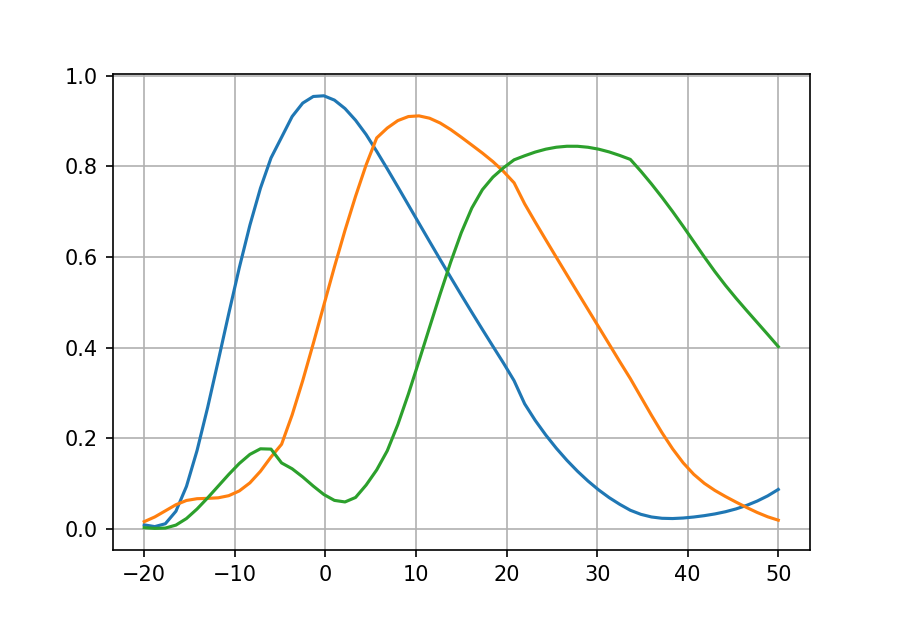
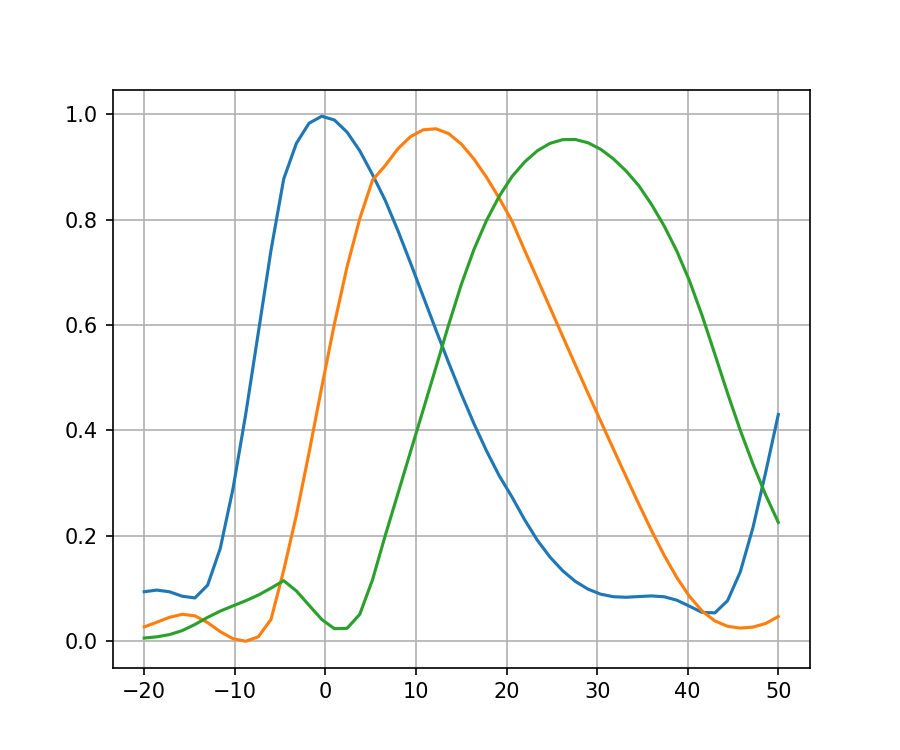
improved accuracy

diff --git a/test_slant.py b/test_slant.py
@@ -23,7 +23,7 @@ domain = Domain()
 domain.set_period_centered(period, period)
 
 modes = Modes(domain)
-modes.set_harmonics(1, 0)
+modes.set_harmonics(10, 0)
 
 
 def run(AOI, slant_angle):
@@ -49,7 +49,7 @@ def run(AOI, slant_angle):
                      slant_angle=np.deg2rad(slant_angle),
                      depth=1.219,
                      dff=-1,
-                     dz=0.1)
+                     dz=0.02)
 
     Sglobal = Sglobal @ S
     Sglobal = Sglobal @ Strn
@@ -122,9 +122,9 @@ def run(AOI, slant_angle):
 
 
 plt.figure(figsize=(6, 5), dpi=150)
-for slant_angle in [-23.289, -12.55, 0]:
+for slant_angle in [23.289, 12.55, 0]:
     ts = []
-    AOIs = np.linspace(-20, 50, 21)
+    AOIs = np.linspace(-20, 50, 51)
     for AOI in AOIs:
         T = run(AOI, slant_angle)
         ts.append(np.sum(T * (modes.mx == -1) * (modes.my == 0)))
